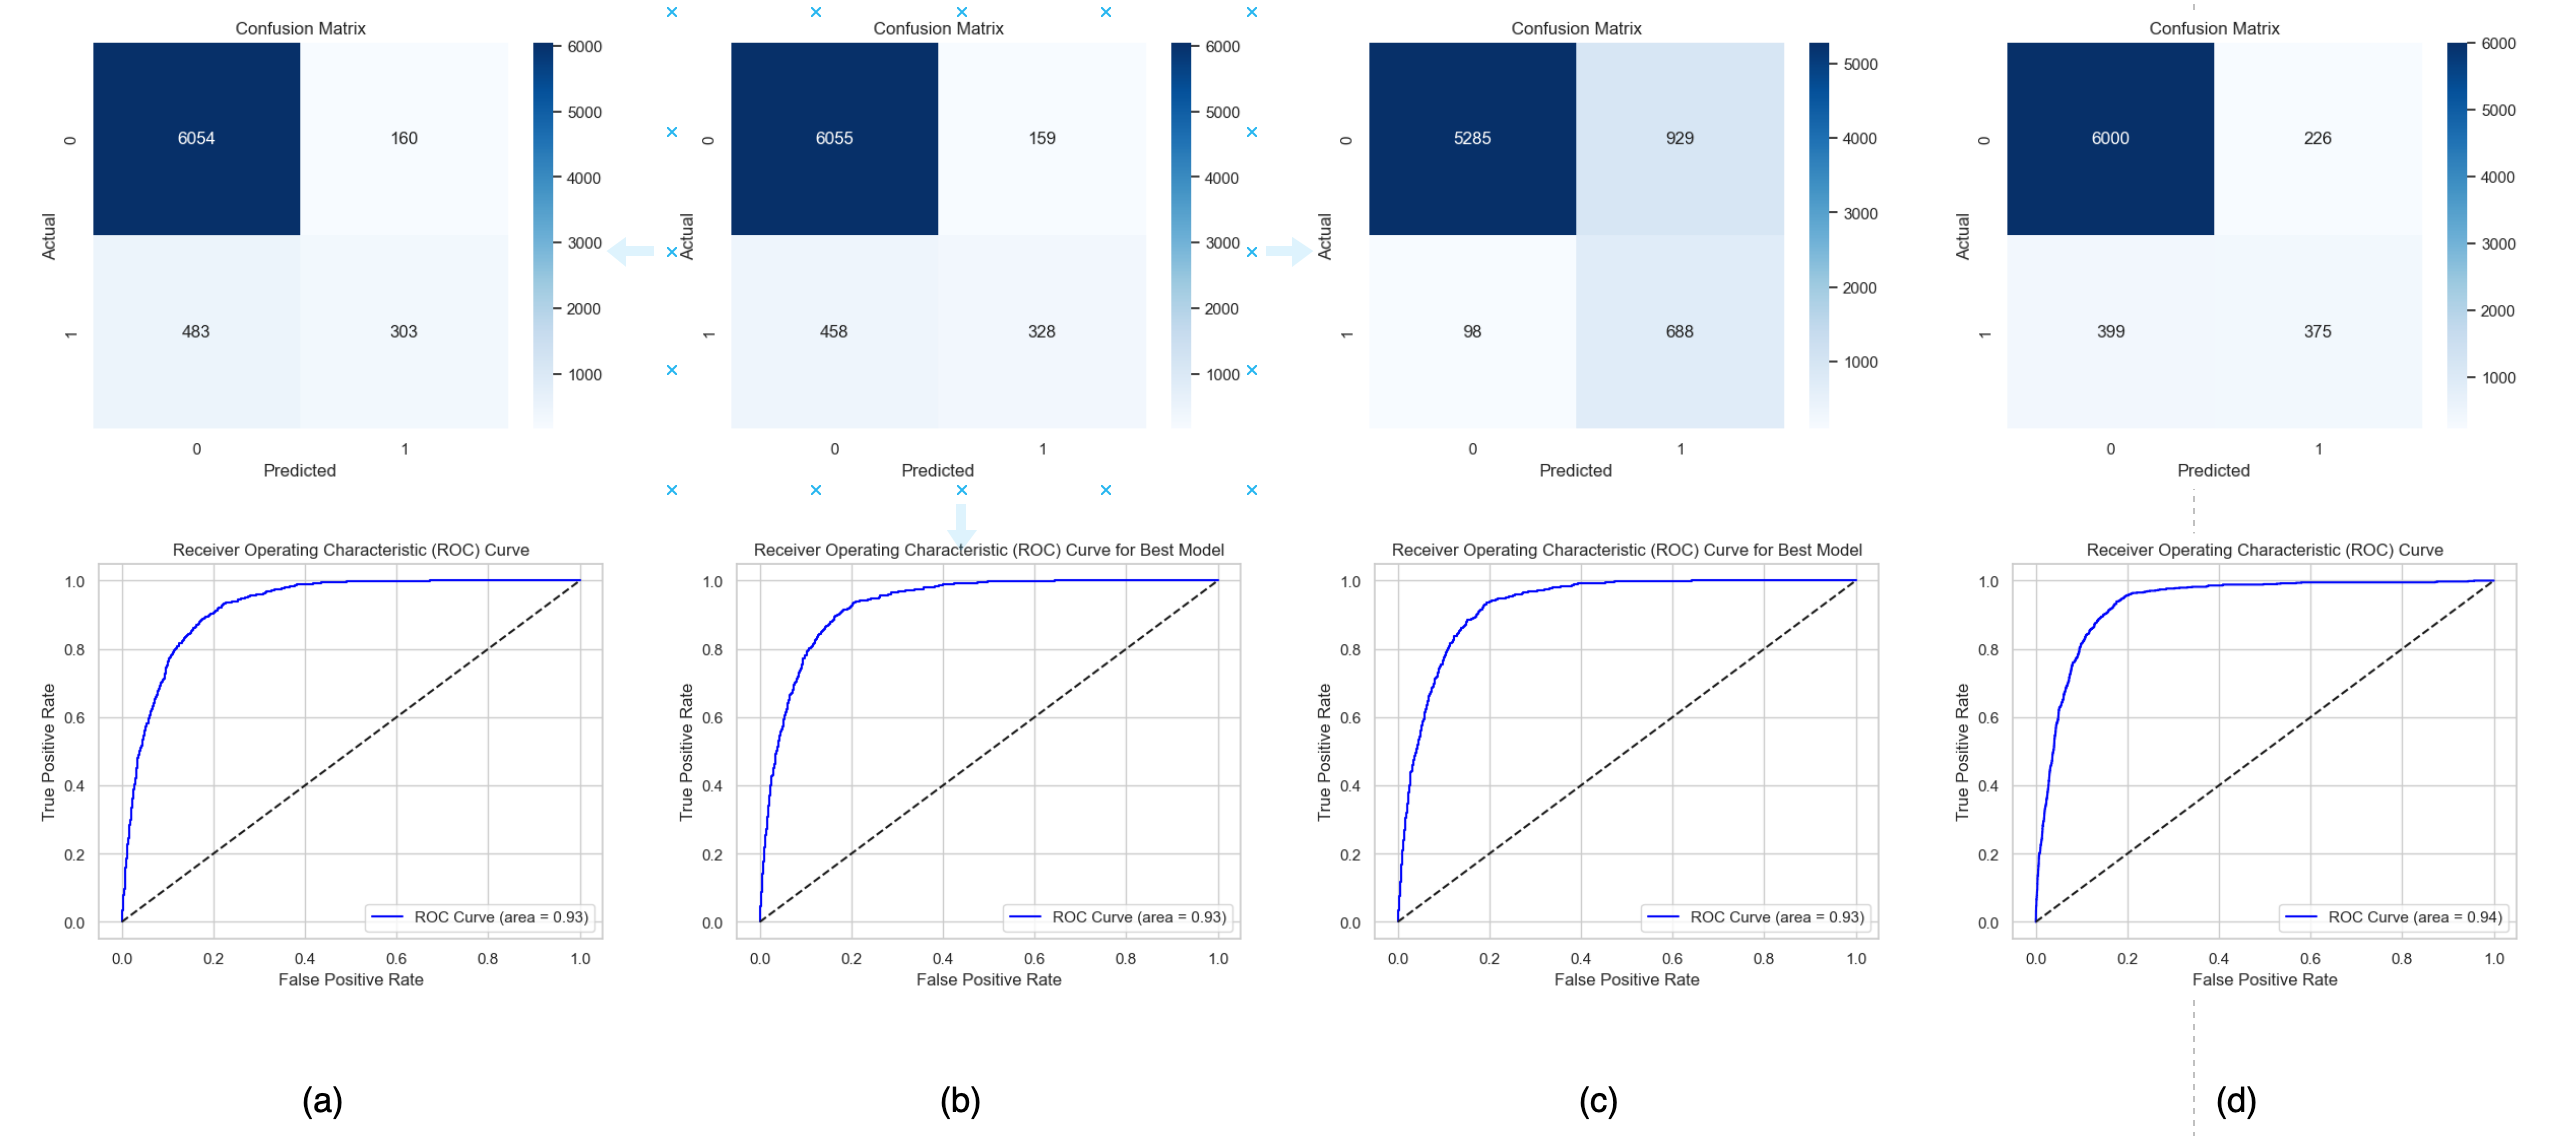
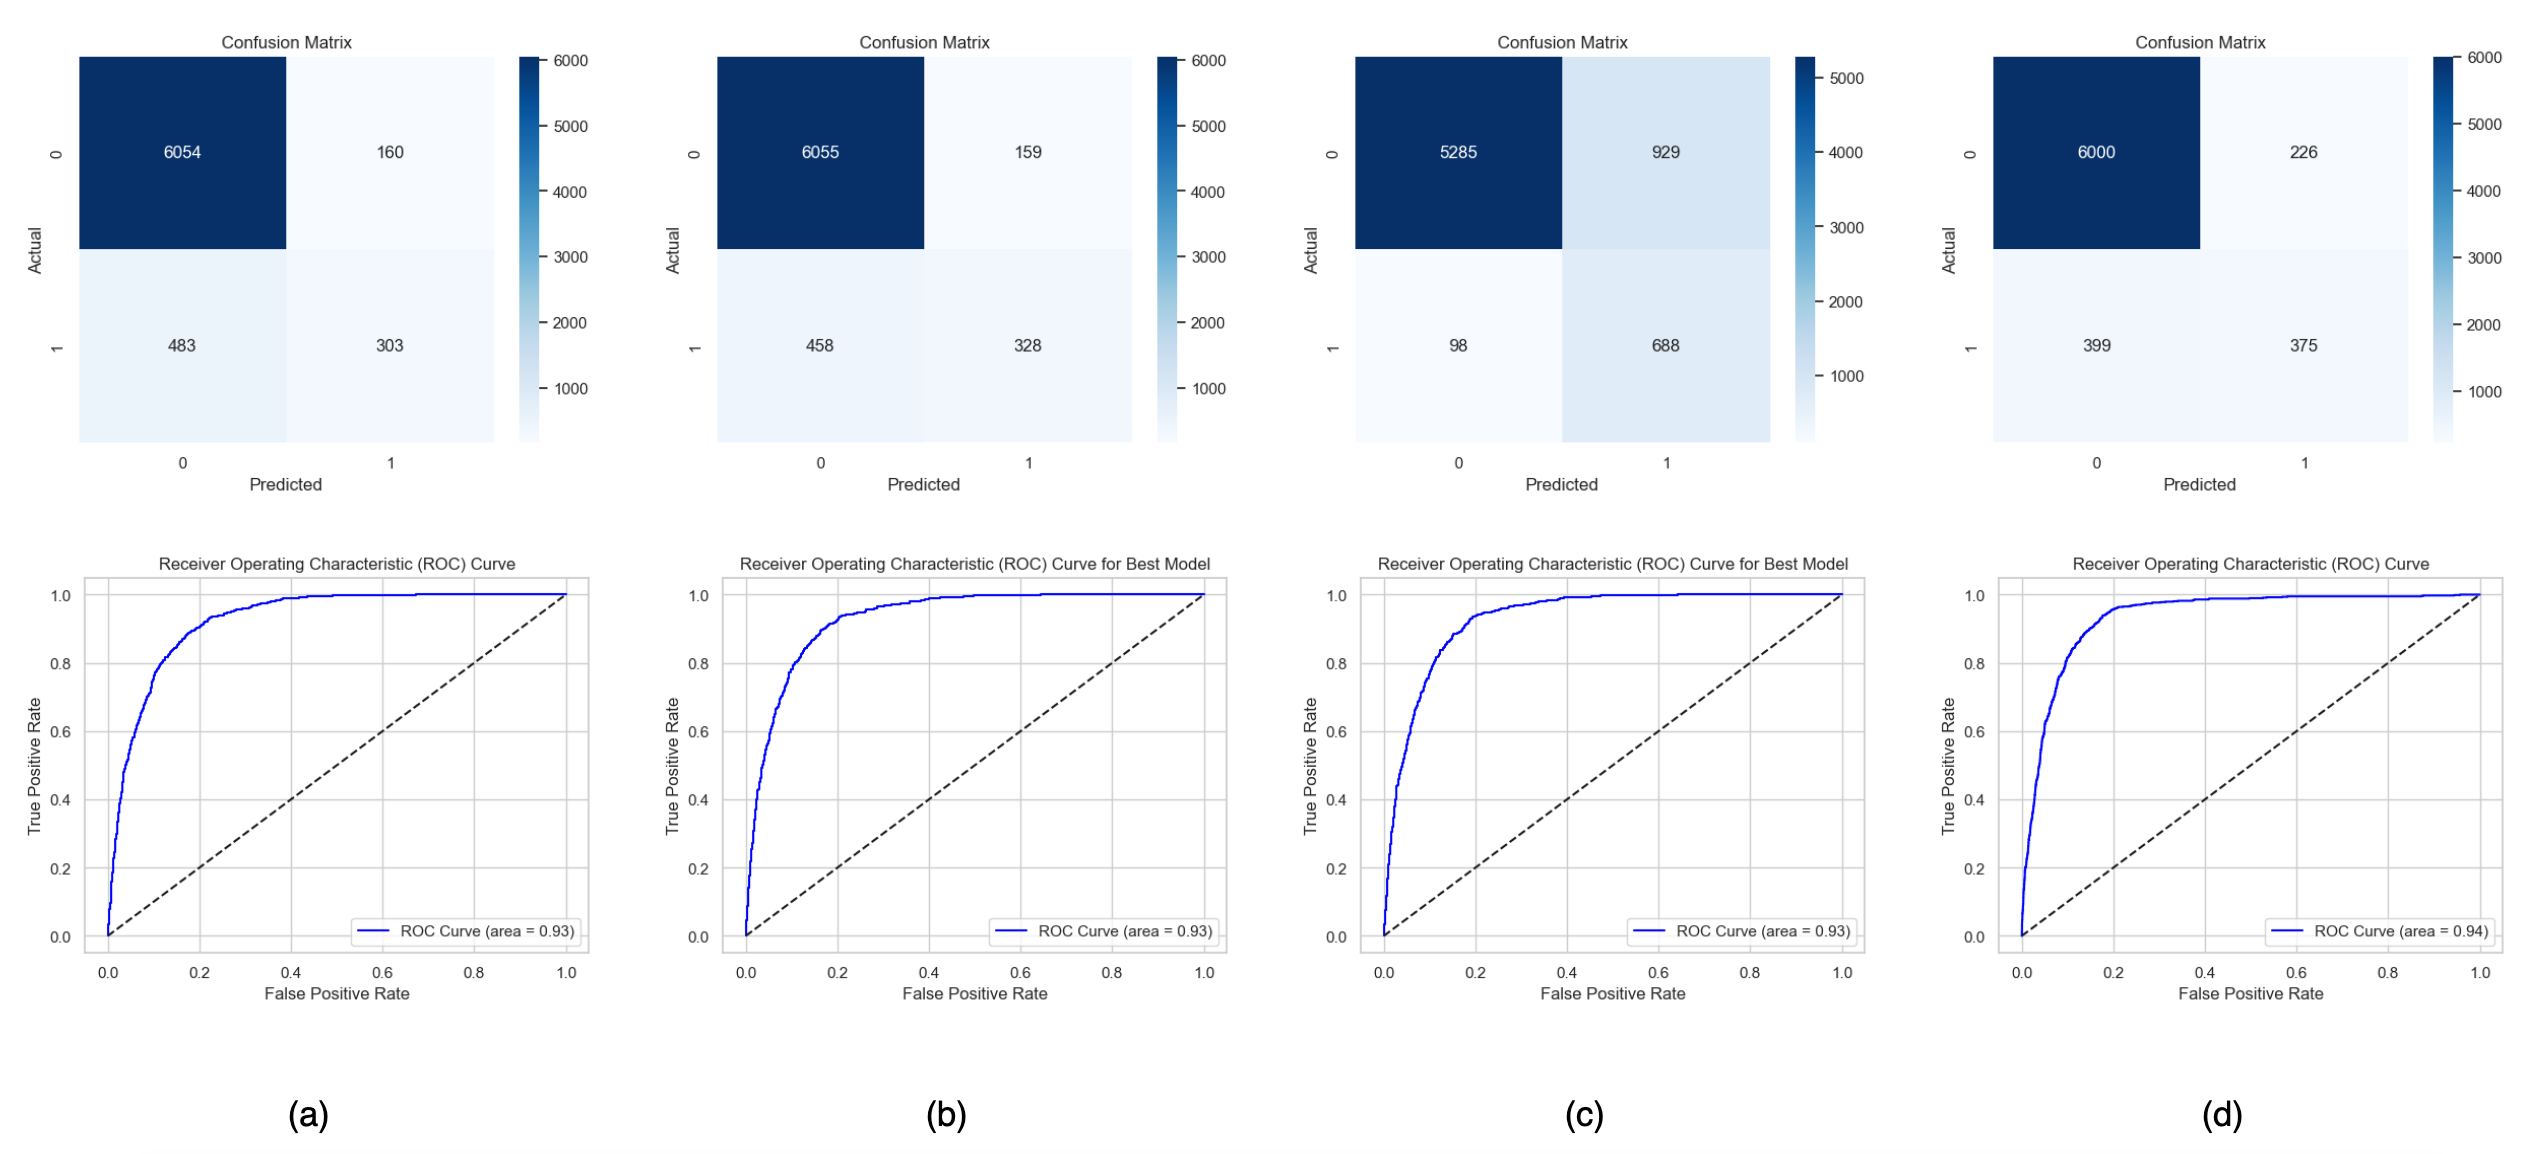
New updates

diff --git a/README.md b/README.md
@@ -325,23 +325,23 @@ Figure 4: Feature Importance Ranking.
 The model performance was evaluated based on the results summaized in Table 7. Essentially, our client aims to reduce wasted calls by making sure that false positives are kept as low as possible. Thus, the first improvement to the Naive
 LR model where it was optimized for precision scoring perfectly aligns with the company's objective. Based on the model improvement done, slight improvements on precision, recall, and f1-score were observed with values of 0.65 to 0.67, 0.39 to 0.42, and 0.49 to 0.52, respectively. Whereas, the accuracy score remains unchanged where this inflation might be caused by the imbalances in the dataset. Same improvements were also noticed in ROC AUC and PR AUC scores wherein the latter provides a more suitable measure of how well the model can discriminate classes. Comparing the first two models, precision-tuned model is considered to be a better operational choice since it aligns well with the goal of minimizing wasted calls.
 
-To handle the class imbalance, another iteration to the model was applied wherein it was tuned for average precision instead. The results show that there is a massive jump in the recall from 0.42 to 0.88, but a significant collapse in precision from 0.67 to 0.43 on the other hand. This observation is important because compared to precision, average precision tunes the model so that it aggregate the precision scores across all thresholds, making sure that the imbalance in the dataset are capture by summarizing the trade-off between precision and recall. The f1-score jumped to 0.57 which reflects the balance between high recall and low precision. Since the number of non-buyers being misclassified as buyer increases, the accuracy drops to 0.85. in business context, this means that the reward of capturing more actual buyers is at the expense of increased wasted calls.
+To handle the class imbalance, another iteration to the model was applied wherein it was tuned for average precision instead. The results show that there is a massive jump in the recall from 0.42 to 0.88, but a significant collapse in precision from 0.67 to 0.43 on the other hand. This observation is important because compared to precision, average precision tunes the model so that it aggregate the precision scores across all thresholds, making sure that the imbalance in the dataset are capture by summarizing the trade-off between precision and recall. The f1-score jumped to 0.57 which reflects the balance between high recall and low precision. Since the number of non-buyers being misclassified as buyer increases, the accuracy drops to 0.85. In business context, this means that the reward of capturing more actual buyers is at the expense of increased wasted calls.
 
-The standard RF model gives reasonable precision and recall values of 0.62 and 0.48, respectively. This yield to highest f1-score of 0.55 besides the avg. precision-heavy Avg. Precision-LR model. Both ROC AUC and PR AUC values of 0.9354 and 0.6157, respectively, have seen the greatest among the all models signifying a model with strongest capability to discriminate classes and handle minority class. Therefore, this model is a great choice if our client prioritizes the balance between precision and recall.
+The standard RF model gives reasonable precision and recall values of 0.62 and 0.48, respectively. This yield to highest f1-score of 0.55 besides the avg. precision-heavy Avg. Precision-LR model. Both ROC AUC and PR AUC values of 0.9354 and 0.6157, respectively, have seen the greatest in standard RF model among the all models signifying a model with strongest capability to discriminate classes and handle minority class. Therefore, this model is a great choice if our client prioritizes the balance between precision and recall.
 
-Lastly, Feature-Selected RF model has exhiited almost same performance as the standard onel, but with slightly lower perfromance across metrics. Therefore, following the selection of features based on the feature importance scores provided by the RF model could mean loss in information and predictive power due to the removal of the other features. Nonetheless, being able to identify highly important features increases model interpretability and alignment with the business context.
+Lastly, Feature-Selected RF model has exhibited almost same performance as the standard one, but with slightly lower perfromance across metrics. Therefore, following the selection of features based on the feature importance scores provided by the RF model could mean loss in information and predictive power due to the removal of the other features. Nonetheless, being able to identify highly important features increases model interpretability and alignment with the business context.
 
-Overall, the choice of the best model depends on the client's overall objective– maximizing profit and minimizing loss. If higher priority is given to minimizing the wasted calls, then Precision-Optimized LR model is the most suitable among all models. if the business wants a more balanced targeting by not missing too many actual buyers, the standard RF model is the best choice. If getting more wasted calls means investing in acquiring more buyers, then Avg. Precision-Optimized model works well with it. Utlimately, the choice on which model should be used could be figured out better when each model is tested against the actual campaigns by calculating all gains and losses, and estimating the overall net profit that they can bring to the business.
+Overall, the choice of the best model depends on the client's overall objective– maximizing profit and minimizing loss. If higher priority is given to minimizing the wasted calls, then Precision-Optimized LR model is the most suitable among all models. If the business wants a more balanced targeting by not missing too many actual buyers, the standard RF model is the best choice. If getting more wasted calls means investing in acquiring more buyers, then Avg. Precision-Optimized model works well with it. Utlimately, the choice on which model should be used could be figured out better when each model is tested against the actual campaigns by calculating all gains and losses, and estimating the overall net profit that they can bring to the business.
 
 ### Profitability Analysis
 
-All models were initially assessed at the default threshold of 0.50. Table 9 shows that all models lost money except the Avg. Precision-Optimized model. This means that although it is at the expense of getting more wasted calls to acquire more actual buyers, the model still became highly profitable with totalling to $445K while the rest didn't even make a dime. However, having the rest of the models generate negative profis could also mean that there are too many false positives leading to wasted calls on another perspective. Thus, making comparisons solely at the default threshold value means not being financially viable since true profitability is not captured. In order to maximize profitability, models must be compared at threshold values where profits are at the highest per risk band per model.
+All models were initially assessed at the default threshold of 0.50. Table 9 shows that all models lost money except the Avg. Precision-Optimized model. This means that although it is at the expense of getting more wasted calls to acquire more actual buyers, the model still became highly profitable totalling to $445K while the rest didn't even make a dime. However, having the rest of the models generate negative profits could also mean that there are too many false positives leading to wasted calls on another perspective. Thus, making comparisons solely at the default threshold value means not being able to prove financial viability since true profitability is not captured. In order to maximize profitability, models must be compared at threshold values where profits are at the highest per risk band per model.
 
-At optimized thresholds, high-risk customers remain unprofitable even with hyperparameter tuning since the high cost of non-buyers outwieghs potential gains, making their total profits negative. For the medium-risk customers, all models result to positive profitability ($115K-$167K) where standard RF model generated the highest total profit of $167K. Across all models, the largest profit generated are contributed by low-risk customers where standard RF model leads at $501K total profit.
+At optimized thresholds, high-risk customers remain unprofitable even with hyperparameter tuning since the high cost of non-buyers outweighs potential gains, making their total profits negative. For the medium-risk customers, all models result to positive profitability ($115K-$167K) where standard RF model generated the highest total profit of $167K. Across all models, the largest profit generated are contributed by low-risk customers where standard RF model leads at $501K total profit.
 
 In terms of accounting the net profit, total gains, and total lost opportunities, standard RF model remains the highest when maximizing profits and minimizing the losses. Avg. Precision-Optimized model was seen to have competitive profit outputs but higher lost opportunities. A much safer model to use when trying to have more control on costs rather than revenue generation would be the Precision-Optimized model. Lastly, Feature-Selected RF gives a great model performance, but does not satisfy the ultimate goal of maximizing gains and minimizing losses as much as standard RF model could do.
 
-In sum, making analyses at default threshold is unacceptable because the variability of the model performance across various threshold values could not be captured well. Therefore, optimizing the threshold at which maximum profit is achieved for each risk band is essential. In terms of the overall performance, standard RF model has stood out in maximizing profits and minimizing wasted calls; best model to use for operational use. As the backbone of this analysis, threshold calibration with selective targeting is a more strategic move in achieving the business objectives of our client rather than lookin into how accurate the models make predictions.
+In sum, making analyses at default threshold is unacceptable because the variability of the model performance across various threshold values could not be captured well. Therefore, optimizing the threshold at which maximum profit is achieved for each risk band is essential. In terms of the overall performance, standard RF model has stood out in maximizing profits and minimizing wasted calls; best model to use for operational use. As the backbone of this analysis, threshold calibration with selective targeting is a more strategic move in achieving the business objectives of our client rather than looking into how accurate the models make predictions.
 
 ## Conclusions
 
